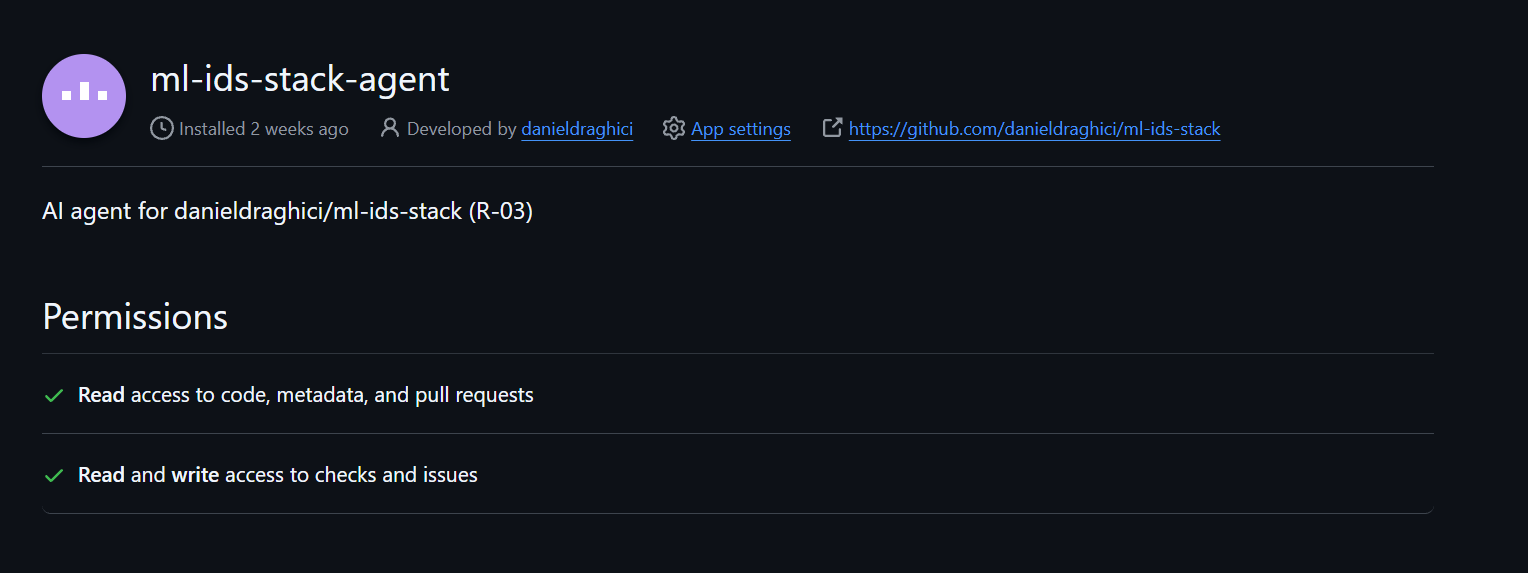
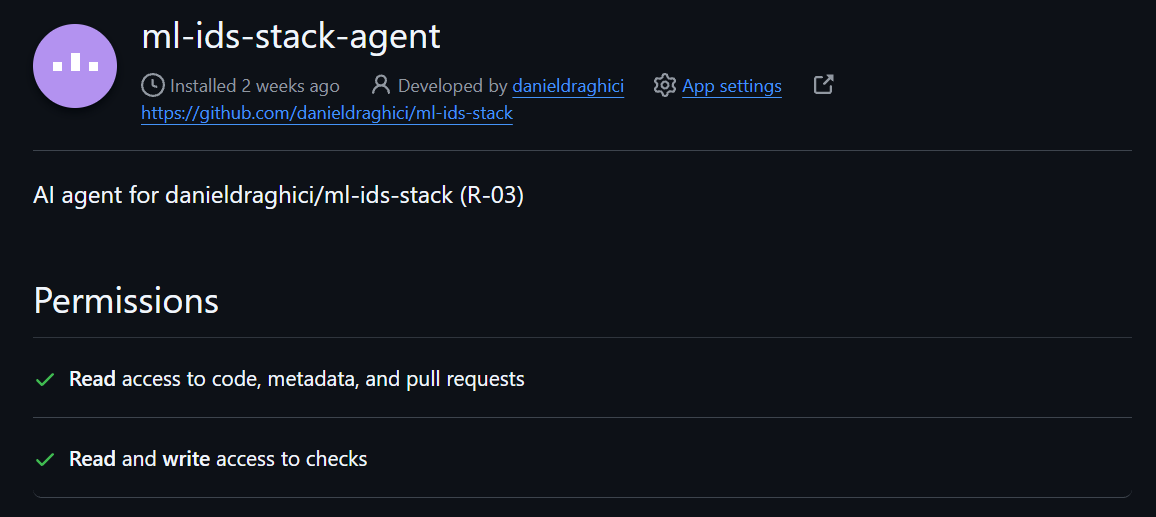
docs: reviewer App with checks write only; R-01 and R-03 say the review lives in the check (R-01, R-03)
After pull request 20 the App no longer has Issues: the new installation screenshot shows read access to code, metadata and pull requests and write access to checks only. The register rows describe the review as the check's content and the App as unable to comment or approve.

diff --git a/RISK-REGISTER.md b/RISK-REGISTER.md
@@ -45,7 +45,7 @@ Scores: likelihood x impact, 1-5 each (Scales sheet). Bands: 1-7 Low, 8-14 Mediu
 - **ATT&CK / ATLAS:** AML.T0053 (ATLAS); T1565.001
 - **Vulnerability:** The agent can run any git or gh command in the shell; without a ruleset a private repo accepts direct and force pushes; the agent's token is issued by the student's account, so GitHub cannot tell the agent from the student; an author cannot approve their own PR, so no second person reviews
 - **Inherent:** L4 x I4 = 16 (High)
-- **Control:** GitHub Pro from GitHub Education (syllabus route 2), so rulesets work on the private repo. Ruleset A on main, no bypass for anyone: PR required, required status checks, no force push, no deletion. Ruleset B: one approving review; only the student may bypass it, on pull requests only, which skips the approval but never the checks of ruleset A. The automated reviewer, a GitHub App, comments on every pull request and sets the check ai-review, which ruleset A requires from that App only; the App has no pull-request write permission, so it cannot approve, and every merge is the student's decision after reading the review. On the agent's side the guard hook and deny rules refuse git push --force, pushes to main and every merge or approve path (gh pr merge, gh pr review --approve, gh api on pulls/*/merge and pulls/*/reviews, GraphQL mutations); no-commit-to-branch pre-commit hook
+- **Control:** GitHub Pro from GitHub Education (syllabus route 2), so rulesets work on the private repo. Ruleset A on main, no bypass for anyone: PR required, required status checks, no force push, no deletion. Ruleset B: one approving review; only the student may bypass it, on pull requests only, which skips the approval but never the checks of ruleset A. The automated reviewer, a GitHub App, reviews every pull request and puts the review in the check ai-review, which ruleset A requires from that App only; the App has no pull-request write permission, so it can neither comment nor approve, and every merge is the student's decision after reading the review. On the agent's side the guard hook and deny rules refuse git push --force, pushes to main and every merge or approve path (gh pr merge, gh pr review --approve, gh api on pulls/*/merge and pulls/*/reviews, GraphQL mutations); no-commit-to-branch pre-commit hook
 - **Residual:** L2 x I4 = 8 (Medium)
 - **Why the score drops:** Direct pushes, force pushes and failing checks are refused on the server for everyone, with no bypass. The merge itself is kept from the agent by the hook and not by GitHub, because both act as the student: L=2, not 1. Impact stays 4: unreviewed code on main would still compromise it.
 - **Evidence:** `.github/rulesets/main-checks.json` (ruleset A); `.github/rulesets/main-review.json` (ruleset B); `.github/CODEOWNERS`; `.pre-commit-config.yaml`; `.claude/hooks/guard.py`; `tests/test_hook.py`; `docs/evidence/R-01-rulesets-active.json` (API read-back; main-checks requires ai-review from the App); `docs/evidence/R-01-rulesets-page.png`; `docs/evidence/R-01-agent-pr-blocked-until-checks.png`; `docs/evidence/R-01-push-refused.png`; `docs/evidence/R-01-bypass-waits-for-checks.png`; `docs/evidence/R-01-agent-token-merge-test.txt` (the agent's token merged an unapproved pull request through the student's bypass); `.github/workflows/review.yml` (automated review, docs/review.md); `tests/test_review.py` (ai-review required from the App only; the App cannot approve); `docs/evidence/R-01-ai-review-before-approval.png` (F7)
@@ -69,10 +69,10 @@ Scores: likelihood x impact, 1-5 each (Scales sheet). Bands: 1-7 Low, 8-14 Mediu
 - **ATT&CK / ATLAS:** T1528; AML.T0083 (ATLAS)
 - **Vulnerability:** The agent runs as the student's OS user, so it can reach the student's gh and git credentials (classic token with repo scope over every repository, admin on this repo); GITHUB_TOKEN can default to write-all
 - **Inherent:** L3 x I5 = 15 (High)
-- **Control:** The agent works with a fine-grained token the student creates for this repo only: contents, pull requests and workflows write, actions and statuses read, no administration, so it cannot change rulesets, settings or collaborators; it expires after 30 days. Claude Code runs in the project dev container, which mounts only that token, read-only; the guard hook refuses any agent command that reads or prints it (gh auth token, git credential fill, gh auth git-credential) or logs in with another, and the student's own login is never mounted. The pull-request reviewer is a separate GitHub App with checks and issues write and read-only contents and pull requests, so it cannot approve; each review mints a one-hour token that is revoked when the job ends. Every workflow starts with read-only permissions and each job widens only what it needs
+- **Control:** The agent works with a fine-grained token the student creates for this repo only: contents, pull requests and workflows write, actions and statuses read, no administration, so it cannot change rulesets, settings or collaborators; it expires after 30 days. Claude Code runs in the project dev container, which mounts only that token, read-only; the guard hook refuses any agent command that reads or prints it (gh auth token, git credential fill, gh auth git-credential) or logs in with another, and the student's own login is never mounted. The pull-request reviewer is a separate GitHub App with checks write and read-only contents and pull requests, so it can neither comment nor approve; each review mints a one-hour token that is revoked when the job ends. Every workflow starts with read-only permissions and each job widens only what it needs
 - **Residual:** L2 x I2 = 4 (Low)
 - **Why the score drops:** The agent's token reaches one repo and has no admin rights, so there is no path to other repositories or to the rulesets; it lives 30 days, so a leaked token stays usable that long within this repo: L=2. Inside this repo it can push branches, change workflow files and open pull requests; the rulesets, the hook (R-01) and the isolated reviewer key (R-04) bound what that achieves: I=2.
-- **Evidence:** `.devcontainer/devcontainer.json`; `docs/credentials.md`; `.claude/hooks/guard.py` (token reads, gh auth token, git credential, gh auth login); `tests/test_hook.py`; `.github/workflows/*.yml` (permissions blocks); `docs/evidence/R-03-R-04-actions-permissions.json` (workflow token read-only); `docs/evidence/R-03-agent-token-scope.png`; `docs/evidence/R-03-agent-token-check.txt`; `docs/evidence/R-03-app-installation.png` (reviewer App: read code, metadata and pull requests; write checks and issues)
+- **Evidence:** `.devcontainer/devcontainer.json`; `docs/credentials.md`; `.claude/hooks/guard.py` (token reads, gh auth token, git credential, gh auth login); `tests/test_hook.py`; `.github/workflows/*.yml` (permissions blocks); `docs/evidence/R-03-R-04-actions-permissions.json` (workflow token read-only); `docs/evidence/R-03-agent-token-scope.png`; `docs/evidence/R-03-agent-token-check.txt`; `docs/evidence/R-03-app-installation.png` (reviewer App: read code, metadata and pull requests; write checks only)
 - **Owner / status:** Daniel Draghici / Implemented
 
 ## R-04 (External): CI/CD pipeline and the built detector image
